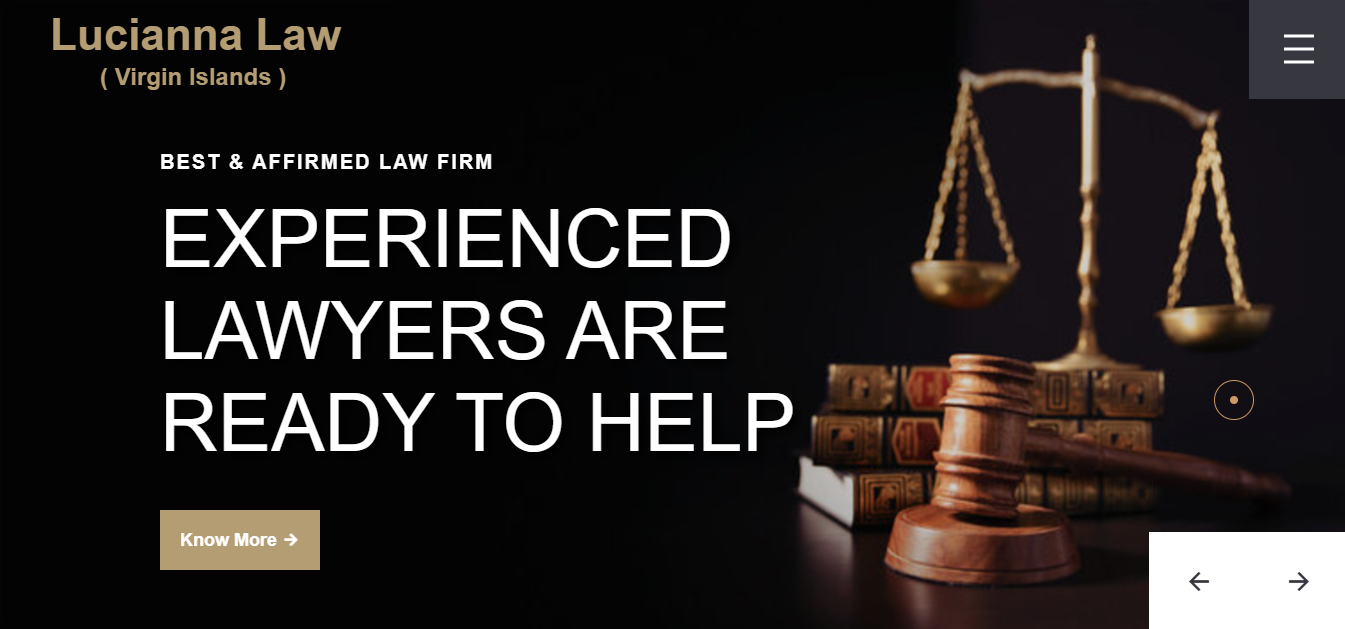
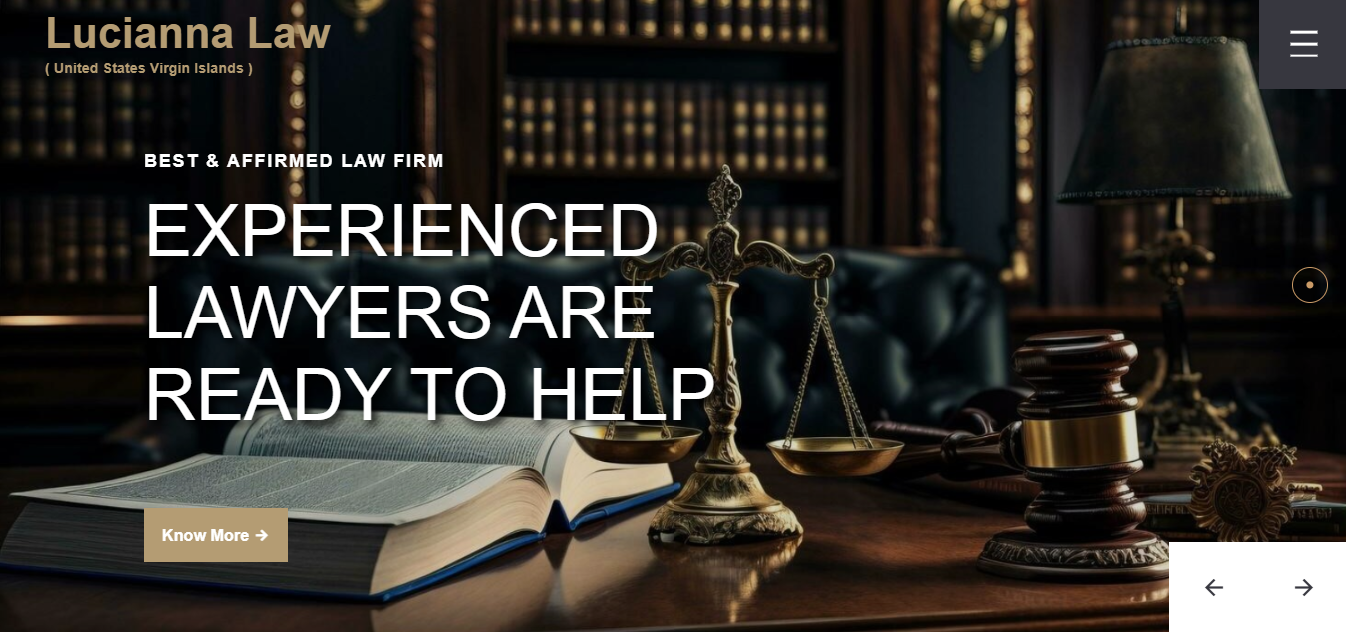
updated-virgin-islands

diff --git a/src/data/websites-data.ts b/src/data/websites-data.ts
@@ -149,20 +149,27 @@ export const slides = [
     },
     {
       id: 22,
+      image: "/img-27.png",
+      title: "Virgin Islands",
+      category: "law-firm",
+      path: "https://thefixwell.com/samples/virginislands-edied-16-01-2025/",
+    },
+    {
+      id: 23,
       image: "/img-22.png",
       title: "Desert In Alaska",
       category: "heating-and-ac",
       path: "https://thefixwell.com/samples/newdesert2/",
     },
     {
-      id: 23,
+      id: 24,
       image: "/img-23.png",
       title: "Lava Smoke Shop",
       category: "smoke",
       path: "https://thefixwell.com/samples/ogani-master/",
     },
     {
-      id: 24,
+      id: 25,
       image: "/img-24.png",
       title: "Renaissance Sample 1",
       category: "events",
@@ -170,29 +177,21 @@ export const slides = [
     },
     
     {
-      id: 25,
+      id: 26,
       image: "/img-25.png",
       title: "Renaissance Sample 2",
       category: "events",
       path: "https://thefixwell.com/samples/renaissanceevents-sample-2/",
     },
     {
-      id: 26,
+      id: 27,
       image: "/img-26.png",
       title: "Shiva Roadlines",
       category: "transportation",
       path: "https://thefixwell.com/samples/shivaroadlines/",
     },
     {
-      id: 27,
-      image: "/img-27.png",
-      title: "Virgin Islands",
-      category: "law-firm",
-      path: "https://thefixwell.com/samples/A1-staffing-new-final1/",
-    },
-    
-    {
-      id: 28,
+      id: 29,
       image: "/img-28.png",
       title: "Almo Laminates",
       category: "laminates-and-interior",
@@ -200,7 +199,7 @@ export const slides = [
     },
     
     {
-      id: 29,
+      id: 30,
       image: "/img-29.png",
       title: "ICD Innovative Construction",
       category: "construction/roofing",
@@ -208,7 +207,7 @@ export const slides = [
     },
     
     {
-      id: 30,
+      id: 31,
       image: "/img-30.png",
       title: "Hijama Sample 1",
       category: "clinic",
@@ -216,45 +215,52 @@ export const slides = [
     },
     
     {
-      id: 31,
+      id: 32,
       image: "/img-31.png",
       title: "Detox Clinic",
       category: "clinic",
       path: "https://thefixwell.com/samples/DetoxClinic/",
     },
     {
-      id: 32,
+      id: 33,
       image: "/img-32.png",
       title: "Classic Contractors",
       category: "construction/roofing",
       path: "https://thefixwell.com/samples/classic-contractor-3/",
     },
     {
-      id: 33,
+      id: 34,
       image: "/img-33.png",
       title: "Battlefields",
       category: "blog",
       path: "https://thefixwell.com/samples/battlefields-1/",
     },
     {
-      id: 34,
+      id: 35,
       image: "/img-34.png",
       title: "United Furniture",
       category: "furniture",
       path: "https://thefixwell.com/samples/united-furniture-2/",
     },
     {
-      id: 35,
+      id: 36,
       image: "/img-35.png",
       title: "United-Furniture sample 2",
       category: "furniture",
       path: "https://thefixwell.com/samples/unionfurniture/",
     },
     {
-      id: 36,
+      id: 37,
       image: "/img-36.png",
       title: "Transit Express",
       category: "tour-and-travel",
       path: "https://thefixwell.com/samples/transitexpress-1/",
+    },
+    {
+      id: 38,
+      image: "/img-37.png",
+      title: "Jewel Construction",
+      category: "construction/roofing",
+      path: "https://thefixwell.com/samples/jewel/",
     },
   ];

diff --git a/src/components/SliderComponent.tsx b/src/components/SliderComponent.tsx
@@ -54,7 +54,7 @@ const SliderComponent = () => {
       : slides.filter((slide) => slide.category === selectedCategory);
 
   return (
-    <div className="container mx-auto font-forum pt-5">
+    <div className="container mx-auto font-forum p-4 sm:p-14 sm:pt-4">
       <div className="flex justify-center items-center font-bold text-6xl text-slate-950 dark:text-white py-10">
         <h1>Cmax Templates</h1>
       </div>

diff --git a/src/app/page.tsx b/src/app/page.tsx
@@ -3,7 +3,7 @@ import SliderComponent from "@/components/SliderComponent";
 
 export default function Home() {
   return (
-    <div className="relative overflow-hidden h-screen">
+    <div className="relative overflow-hidden">
       <div className="absolute top-10 right-10">
         <ModeToggle />
       </div>
